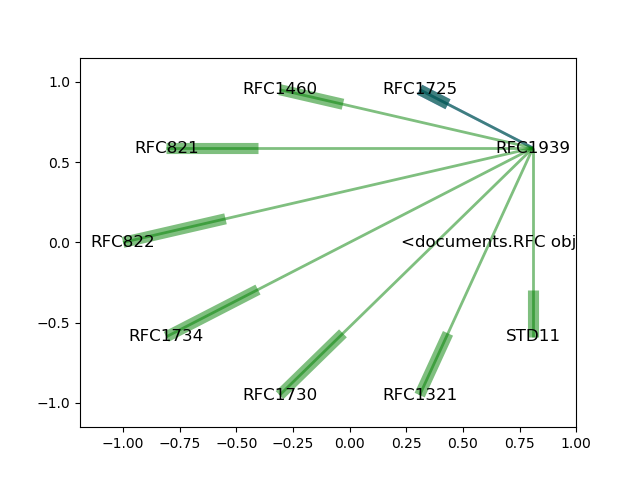
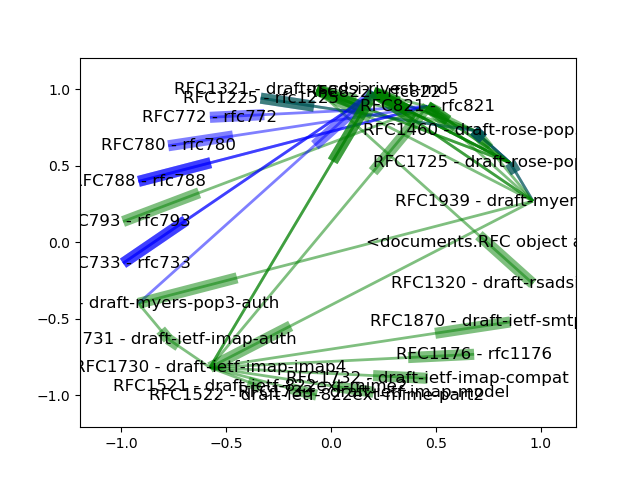
Added colours and titles! Except the titles are unreadable and overlap the docs!

diff --git a/Code/viz/rfc_graph.py b/Code/viz/rfc_graph.py
@@ -401,7 +401,7 @@ def draw_timeline_areas(areas, time_delta, start_date, end_date):
     # Define constants for size of ellipses and edges
     rx = 90
     ry = 50
-    lane_sep = 70
+    track_height = 150
     x_buffer = rx + 20
     y_buffer = ry + 20
     length = time_delta.days + (2 * x_buffer) + rx
@@ -412,7 +412,7 @@ def draw_timeline_areas(areas, time_delta, start_date, end_date):
         for group in area.groups.values():
             num_of_groups = num_of_groups + 1
 
-    height = (y_buffer * 2) + (num_of_groups * 2 * ry) + (num_of_groups * lane_sep)
+    height = (y_buffer * 2) + (num_of_groups * 2 * ry) + (num_of_groups * track_height)
 
     # size of n ellipses + size of n-1 lines + buffer
 
@@ -421,28 +421,31 @@ def draw_timeline_areas(areas, time_delta, start_date, end_date):
     # dwg.add(dwg.line(start=(x_buffer + 2*rx, y0), end=(x0, y0), stroke='black', stroke_width=2))
 
     area_count = 0
-    y_offset = 0
+    y_offset = 0 + y_buffer
     for area in areas.values():
         group_count = 0
+        colour = drawing.colours[area_count]
+        track_colour = drawing.track_colours[area_count]
         for group in area.groups.values():
+            dwg.add(dwg.rect(
+                insert=(0,y_offset), size=(length, track_height), fill=track_colour, stroke='#000000'))
 
-            # Draw group track lines
-            dwg.add(dwg.line(
-                start=(0, y_offset), end=(length, y_offset), stroke='black', stroke_width=2))
-            dwg.add(dwg.line(
-                start=(0, y_offset + 150), end=(length, y_offset + 150), stroke='black', stroke_width=2))
+            dwg.add(dwg.text(
+                text=group.name, insert=(0,y_offset + track_height/2), rotate=[90], textLength=[track_height]
+            ))
 
-            y_offset = y_offset + 150
             y = y_offset + y_buffer
+            y_offset = y_offset + track_height
 
             for doc in group.references:
                 x = (doc.target.publish_date - start_date).days + x_buffer + rx
                 name_text = doc.target.publish_date
 
                 dwg.add(dwg.ellipse(
-                    center=(x, y), r=(rx, ry),fill='#5555ff', stroke='black', stroke_width=1))
+                    center=(x, y), r=(rx, ry),fill=colour, stroke='#000000', stroke_width=1))
                 dwg.add(dwg.text(text=name_text, insert=(x - rx / 2, y)))
 
+        area_count = area_count + 1
 
     dwg.save()
 

diff --git a/Code/viz/drawing.py b/Code/viz/drawing.py
@@ -13,3 +13,7 @@ class DrawingGroup:
 
     def add_reference(self, doc):
         self.references.append(doc)
+
+
+colours = ['#ff6666', '#ffb366', '#8cff66', '#66ffb3', '#66d9ff', '#6666ff', '#d966ff', '#ff66d9']
+track_colours = ['#ffcccc', '#ffe6cc', '#d9ffcc', '#ccffe6', '#ccf2ff', '#ccccff', '#f2ccff', '#ffccf2']
